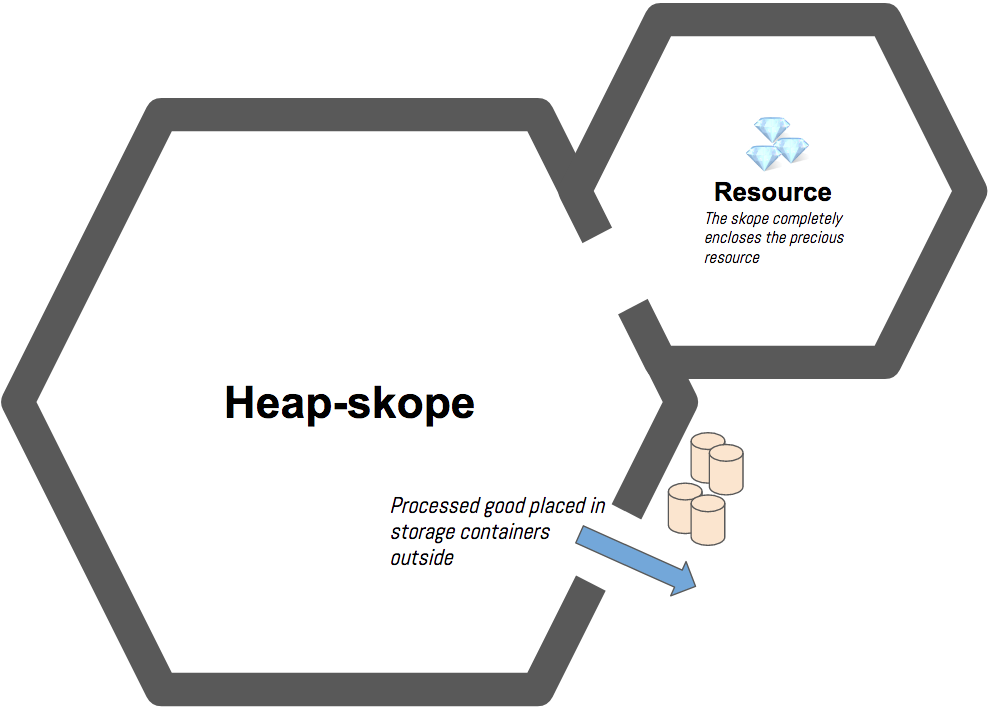
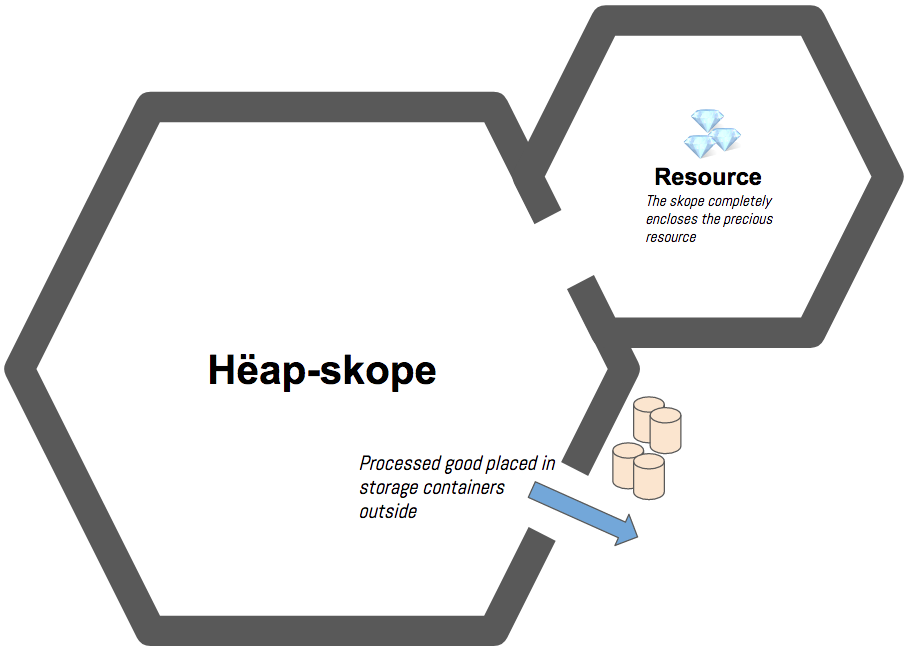
Adding interesting characters back in

diff --git a/book-2-the-novice/chapters/JS_SCOPE.md b/book-2-the-novice/chapters/JS_SCOPE.md
@@ -135,28 +135,28 @@ Inside, the Lexscopistanians erect workshops, forges, and living spaces to be us
 
 There are two types of skopes.
 
-## **Stack-skope**
+## **Stâck-skope**
 
 ![](./images/staak-skupe.png)
 
-This type is smaller, and more mobile, and is used to very quickly gather renewable resources like water and game. An stack-skope usually only stays constructed in a single location for a few days before it is deconstructed and moved.
+This type is smaller, and more mobile, and is used to very quickly gather renewable resources like water and game. An stâck-skope usually only stays constructed in a single location for a few days before it is deconstructed and moved.
 
-Stack-skopes are equipped with 10 storage containers.
+Stâck-skopes are equipped with 10 storage containers.
 
 
-## **Heap-skope**
+## **Hëap-skope**
 
 ![](./images/hiep-skupe.png)
 
-This type is larger, sturdier, and is used to not only enclose the workshops and living spaces for Lexscopistanians, but also the resource they are gathering. A heap-skope is used for processing timber and minerals which can take weeks, or sometimes, months to gather and process.
+This type is larger, sturdier, and is used to not only enclose the workshops and living spaces for Lexscopistanians, but also the resource they are gathering. A hëap-skope is used for processing timber and minerals which can take weeks, or sometimes, months to gather and process.
 
-Stack-skopes are equipped with 30 storage containers.
+Stâck-skopes are equipped with 30 storage containers.
 
 ## Resource Collecting Application
 
 Your job is to build code representations of resources and skopes to process those resources. Let's look at an example.
 
-### Stack-skope Operations
+### Stâck-skope Operations
 
 ```js
 /*
@@ -220,7 +220,7 @@ let agriculturalField = [
     Lexscopistanian food processors can produce 1 bushel of a
     crop for every 22 plants
 */
-const cropStackSkupe = function (rawCrops) {
+const cropStackSkope = function (rawCrops) {
     /*
         Use the array map() method to build up a new array
         populated with processed crops. Remember that the map
@@ -255,7 +255,7 @@ const cropStackSkupe = function (rawCrops) {
     is an object - including functions. Since functions are
     objects, then you can add key/value pairs to them
 */
-cropStackSkupe.containers = []
+cropStackSkope.containers = []
 
 
 /*
@@ -267,7 +267,7 @@ cropStackSkupe.containers = []
     Invoke the function, and store its return value - an array
     of objects - in the `allBushels` variable.
 */
-let allBushels = cropStackSkupe(agriculturalField)
+let allBushels = cropStackSkope(agriculturalField)
 
 
 /*
@@ -310,7 +310,7 @@ allBushels.forEach(
 
             // Once capacity is reached, use next storage container
             if (currentContainer.bushels.length === 21) {
-                cropStackSkupe.containers.push(currentContainer)
+                cropStackSkope.containers.push(currentContainer)
                 currentContainer = cropContainerFactory.next().value
             }
         }
@@ -329,16 +329,16 @@ allBushels.forEach(
     collection of skope storage containers.
 */
 if (currentContainer.bushels.length > 0) {
-    cropStackSkupe.containers.push(currentContainer)
+    cropStackSkope.containers.push(currentContainer)
 }
 
 // Take a look at what's in your containers
 console.log(cropStackSkope.containers)
 ```
 
-### Heap-skope Operations
+### Hëap-skope Operations
 
-Heap-skopes contain the resource they are processing inside the barricade, so their representation in code looks a bit different.
+Hëap-skopes contain the resource they are processing inside the barricade, so their representation in code looks a bit different.
 
 ```js
 const gemHeapSkope = function () { // No parameter needed
@@ -347,7 +347,7 @@ const gemHeapSkope = function () { // No parameter needed
 
     /*
         The gem mine does not exist outside the barricade of the
-        heap-skopes. The Lexscopistanians build the barricade
+        hëap-skopes. The Lexscopistanians build the barricade
         around their facility AND the resource.
 
         a.k.a.
@@ -372,7 +372,7 @@ const gemHeapSkope = function () { // No parameter needed
 
     /*
         Instead of processing the entirety of the resources in
-        bulk - which is what the stack-skope does - this skope
+        bulk - which is what the stâck-skope does - this skope
         will return an object that has a method for processing
         each type of mineral.
 
@@ -380,7 +380,7 @@ const gemHeapSkope = function () { // No parameter needed
         in the outer scope, so that the order in which minerals
         are processed can be customized.
 
-        Heap-skopes workshops can process 5 kilograms of a
+        Hëap-skopes workshops can process 5 kilograms of a
         mineral with each work order. So every time the `process`
         function is invoked, subtract 5 from the amount of the
         requested mineral from the enclosed GemMine above.
@@ -421,7 +421,7 @@ const SkopeManager = gemHeapSkope()
 
 
 /*
-    Create 30 storage containers, which is how many a heap-skope
+    Create 30 storage containers, which is how many a hëap-skope
     is equipped with.
 */
 
